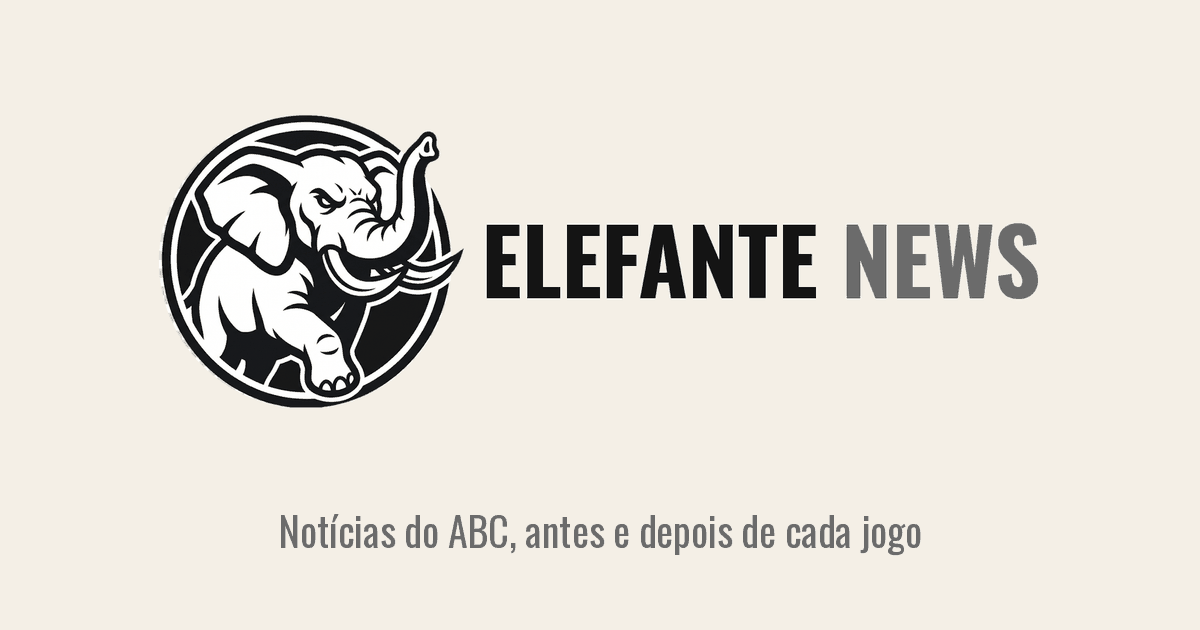
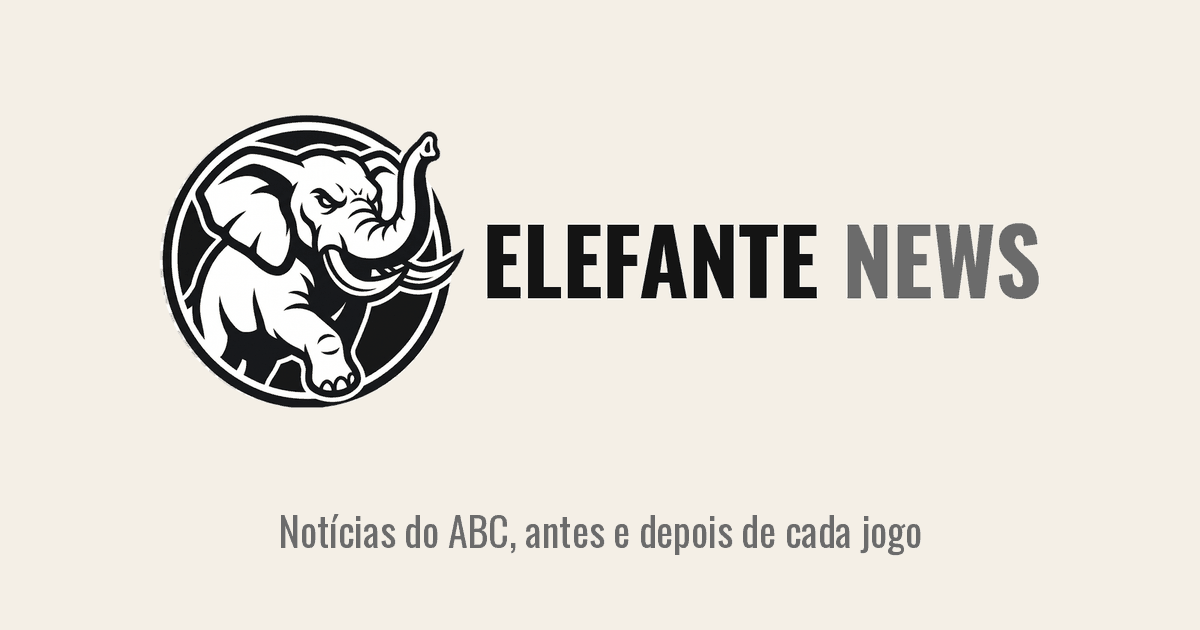
feat: add the geral hub brand and center every wordmark

diff --git a/scripts/make_brand.py b/scripts/make_brand.py
@@ -102,32 +102,34 @@ def font(size, weight=700):
     return f
 
 
-def wordmark(icon, first, second, c1, c2, size=(640, 255), icon_h=205):
-    canvas = Image.new("RGB", size, PAPER)
+def wordmark(icon, first, second, c1, c2, size=(640, 255), icon_h=205, paper=PAPER):
+    """Icon + name, centered; the name is as big as fits, up to half the icon's height."""
+    canvas = Image.new("RGB", size, paper)
     ic = icon.resize((icon_h, icon_h), Image.LANCZOS)
     pad = (size[1] - icon_h) // 2
-    canvas.paste(ic, (pad, pad), ic)
+    gap = icon_h // 18
     draw = ImageDraw.Draw(canvas)
-    x0 = pad + icon_h + 22
-    avail = size[0] - x0 - pad
-    s = 120
-    while True:
+    first, second = first.upper(), second.upper()
+    avail = size[0] - 2 * pad - icon_h - gap
+    s = icon_h
+    while s > 30:
         f = font(s)
-        w1 = draw.textlength(first.upper() + " ", font=f)
-        w2 = draw.textlength(second.upper(), font=f)
-        if w1 + w2 <= avail or s < 30:
+        w1 = draw.textlength(first + (" " if second else ""), font=f)
+        w2 = draw.textlength(second, font=f)
+        top, bottom = draw.textbbox((0, 0), first, font=f)[1::2]
+        if w1 + w2 <= avail and bottom - top <= icon_h * 0.5:
             break
         s -= 2
-    asc, desc = f.getmetrics()
-    bbox = draw.textbbox((0, 0), first.upper(), font=f)
-    y = (size[1] - (bbox[3] - bbox[1])) // 2 - bbox[1]
-    draw.text((x0, y), first.upper() + " ", font=f, fill=c1)
-    draw.text((x0 + w1, y), second.upper(), font=f, fill=c2)
+    x = int((size[0] - (icon_h + gap + w1 + w2)) // 2)
+    canvas.paste(ic, (x, pad), ic)
+    y = (size[1] - (bottom - top)) // 2 - top
+    draw.text((x + icon_h + gap, y), first, font=f, fill=c1)
+    draw.text((x + icon_h + gap + w1, y), second, font=f, fill=c2)
     return canvas
 
 
-def og(logo, tagline):
-    canvas = Image.new("RGB", (1200, 630), PAPER)
+def og(logo, tagline, paper=PAPER):
+    canvas = Image.new("RGB", (1200, 630), paper)
     lg = logo.resize((960, 383), Image.LANCZOS)
     canvas.paste(lg, (120, 70))
     draw = ImageDraw.Draw(canvas)
@@ -146,12 +148,17 @@ def save_small(im, path, colors=48):
 
 if __name__ == "__main__":
     src, out, first, second, c1, c2, team = sys.argv[1:8]
-    circle = "--circle" in sys.argv[8:]
+    opts = dict(a[2:].split("=", 1) if "=" in a else (a[2:], "1") for a in sys.argv[8:])
+    circle = "circle" in opts
+    paper = hexrgb(opts["paper"]) if "paper" in opts else PAPER  # the hub: --paper=#EFE4CC
+    tagline = opts.get("tagline", f"Notícias do {team}, antes e depois de cada jogo")
     os.makedirs(out, exist_ok=True)
     icon = cut_mascot(src, circle)
     save_small(icon, f"{out}/icon-512.png", 64)
-    logo = wordmark(icon, first, second, hexrgb(c1), hexrgb(c2), size=(1280, 510), icon_h=410)
+    logo = wordmark(
+        icon, first, second, hexrgb(c1), hexrgb(c2), size=(1280, 510), icon_h=410, paper=paper
+    )
     save_small(logo.resize((640, 255), Image.LANCZOS), f"{out}/logo-email.png")
-    save_small(og(logo, f"Notícias do {team}, antes e depois de cada jogo"), f"{out}/og-image.png")
+    save_small(og(logo, tagline, paper), f"{out}/og-image.png")
     for f in ("icon-512", "logo-email", "og-image"):
         print(f, os.path.getsize(f"{out}/{f}.png") // 1024, "KB")

diff --git a/docs/features/identidade-geral.md b/docs/features/identidade-geral.md
@@ -1,7 +1,7 @@
 # Identidade visual da Geral (o hub)
 
 - **Data:** 2026-11-10
-- **Status:** proposta
+- **Status:** imagens geradas (o Nano Banana pintou a pele de amarelo; aceito por ora)
 - **ADRs:** —
 
 ## Objetivo
@@ -47,6 +47,13 @@ seus mascotes.
 > circle background #8E8B84; terraces and roof #B9B5AC; shirt #EFE4CC; skin #C99A73; hair, mustache
 > and outlines #1E1E1E; the radio is the only #E3B23C element. No green, no other colors. No club
 > crest, no club colors, no flags, no stadium logo.
+
+## Como gerar
+
+```bash
+python scripts/make_brand.py brand_src/geral.jpg src/geral/static/geral Geral "" "#1E1E1E" "#1E1E1E" Geral \
+  --circle "--paper=#EFE4CC" "--tagline=Todas as torcidas numa Geral só"
+```
 
 ## Critérios de aceite
 
